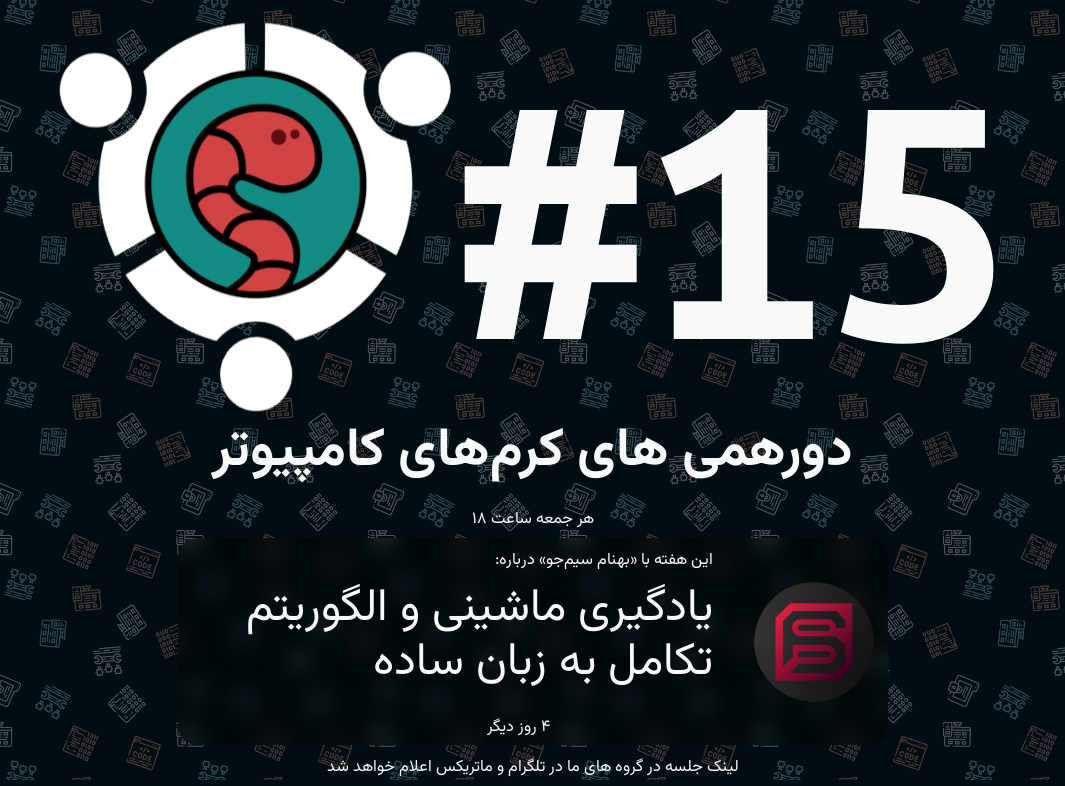
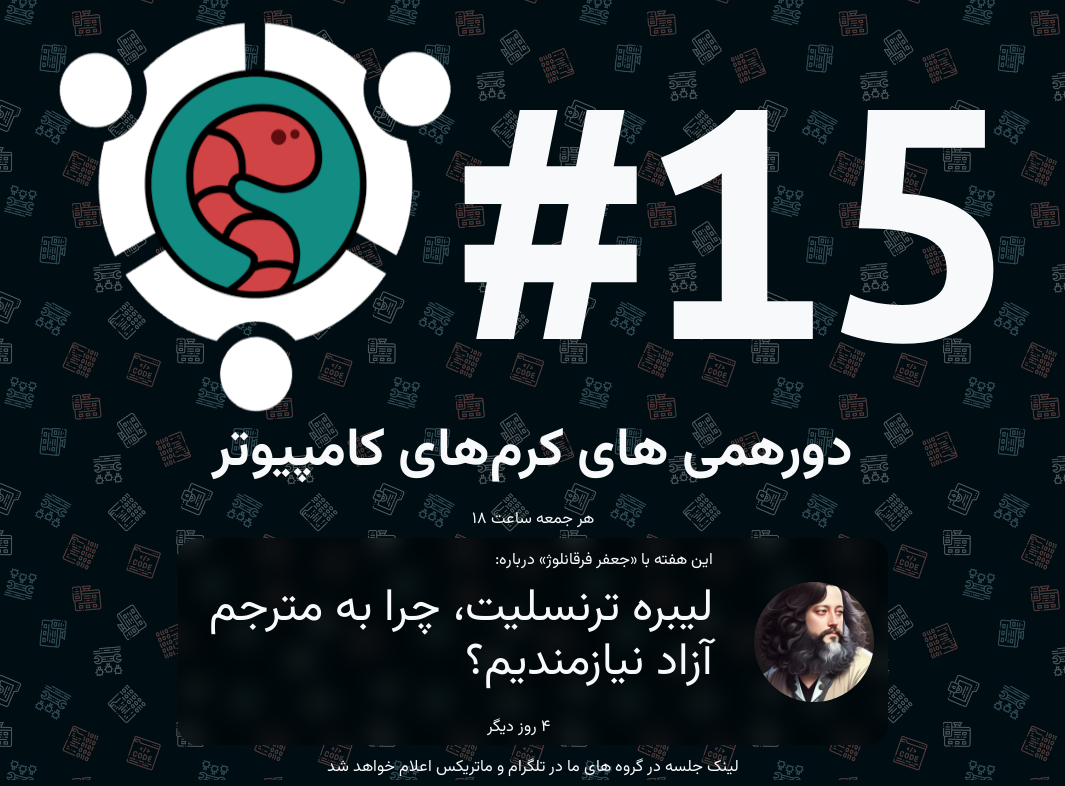
deploy: 510f7677a0b24aa39533d012b4c24e1eca05a89e

Changed region(s): [[0.1859, 0.7023, 0.6817, 0.8855], [0.7127, 0.7328, 0.8366, 0.916]]

diff --git a/index.html b/index.html
@@ -6,7 +6,7 @@
     <meta name="viewport" content="width=device-width, initial-scale=1.0">
     <meta property="og:title" content="#15 - دورهمی کرمهای کامپیوتر" />
     <meta name="og:description" content="دورهمی های کرمهای کامپیوتر - جمعه هر هفته ساعت شش
- این هفته با ارائه «بهنام سیمجو» درباره یادگیری ماشینی و الگوریتم تکامل به زبان ساده">
+ این هفته با ارائه «جعفر فرقانلوژ» درباره لیبره ترنسلیت، چرا به مترجم آزاد نیازمندیم؟">
     <meta property="og:url" content="https://meet.pcworms.ir" />
     <meta property="og:image" content="https://meet.pcworms.ir/preview.png" />
     <title>دورهمی های کرم های کامپیوتر</title>
@@ -20,7 +20,7 @@
         rel="stylesheet">
     <script>
         // Set the date we're counting down to
-        var countDownDate = new Date("Jan 26, 2024 18:00:00").getTime();
+        var countDownDate = new Date("Feb 02, 2024 18:00:00").getTime();
         var finishDate = countDownDate + (1.5 * 3600 * 1000);
 
         // Update the count down every 1 second
@@ -97,12 +97,12 @@
         <div class="row justify-content-center">
             <div class="col-12 col-sm-10 col-md-8 p-2 subject-bg">
                 <div class=" row align-items-center">
-                    <div class="col-auto float-start text-center"><img src="assets&#x2F;avatars&#x2F;bsimjoo.png" class="profile"></div>
+                    <div class="col-auto float-start text-center"><img src="assets&#x2F;avatars&#x2F;mehr32.png" class="profile"></div>
                     <div class="col">
                         <small class="speaker d-block">
-                            این هفته با «بهنام سیمجو» درباره:
+                            این هفته با «جعفر فرقانلوژ» درباره:
                         </small>
-                        <h2 class="subject">یادگیری ماشینی و الگوریتم تکامل به زبان ساده</h2>
+                        <h2 class="subject">لیبره ترنسلیت، چرا به مترجم آزاد نیازمندیم؟</h2>
                         <div class="text-center">
                             <small class="time" id="counter"></small>
                         </div>

diff --git a/post.html b/post.html
@@ -6,7 +6,7 @@
     <meta name="viewport" content="width=device-width, initial-scale=1.0">
     <meta property="og:title" content="#15 - دورهمی کرمهای کامپیوتر" />
     <meta name="og:description" content="دورهمی های کرمهای کامپیوتر - جمعه هر هفته ساعت شش
- این هفته با ارائه «بهنام سیمجو» درباره یادگیری ماشینی و الگوریتم تکامل به زبان ساده">
+ این هفته با ارائه «جعفر فرقانلوژ» درباره لیبره ترنسلیت، چرا به مترجم آزاد نیازمندیم؟">
     <meta property="og:url" content="https://meet.pcworms.ir" />
     <meta property="og:image" content="https://meet.pcworms.ir/preview.png" />
     <title>دورهمی های کرم های کامپیوتر</title>
@@ -20,7 +20,7 @@
         rel="stylesheet">
     <script>
         // Set the date we're counting down to
-        var countDownDate = new Date("Jan 26, 2024 18:00:00").getTime();
+        var countDownDate = new Date("Feb 02, 2024 18:00:00").getTime();
         var finishDate = countDownDate + (1.5 * 3600 * 1000);
 
         // Update the count down every 1 second
@@ -90,12 +90,12 @@
         <div class="row justify-content-center">
             <div class="col-12 col-sm-10 col-md-8 p-2 subject-bg">
                 <div class=" row align-items-center">
-                    <div class="col-auto float-start text-center"><img src="assets&#x2F;avatars&#x2F;bsimjoo.png" class="profile"></div>
+                    <div class="col-auto float-start text-center"><img src="assets&#x2F;avatars&#x2F;mehr32.png" class="profile"></div>
                     <div class="col">
                         <small class="speaker d-block">
-                            این هفته با «بهنام سیمجو» درباره:
+                            این هفته با «جعفر فرقانلوژ» درباره:
                         </small>
-                        <h2 class="subject">یادگیری ماشینی و الگوریتم تکامل به زبان ساده</h2>
+                        <h2 class="subject">لیبره ترنسلیت، چرا به مترجم آزاد نیازمندیم؟</h2>
                         <div class="text-center">
                             <small class="time" id="counter"></small>
                         </div>

diff --git a/preview.html b/preview.html
@@ -28,9 +28,9 @@
             <div class="col-12 col-sm-10 col-md-8 p-2"">
                 <div class=" row align-items-center">
                 <div class="col">
-                    <h1 class="subject" dir="rtl">یادگیری ماشینی و الگوریتم تکامل به زبان ساده</h1>
+                    <h1 class="subject" dir="rtl">لیبره ترنسلیت، چرا به مترجم آزاد نیازمندیم؟</h1>
                 </div>
-                <div class="col-auto float-start text-center"><img src="assets&#x2F;avatars&#x2F;bsimjoo.png" class="profile"></div>
+                <div class="col-auto float-start text-center"><img src="assets&#x2F;avatars&#x2F;mehr32.png" class="profile"></div>
             </div>
         </div>
     </div>
